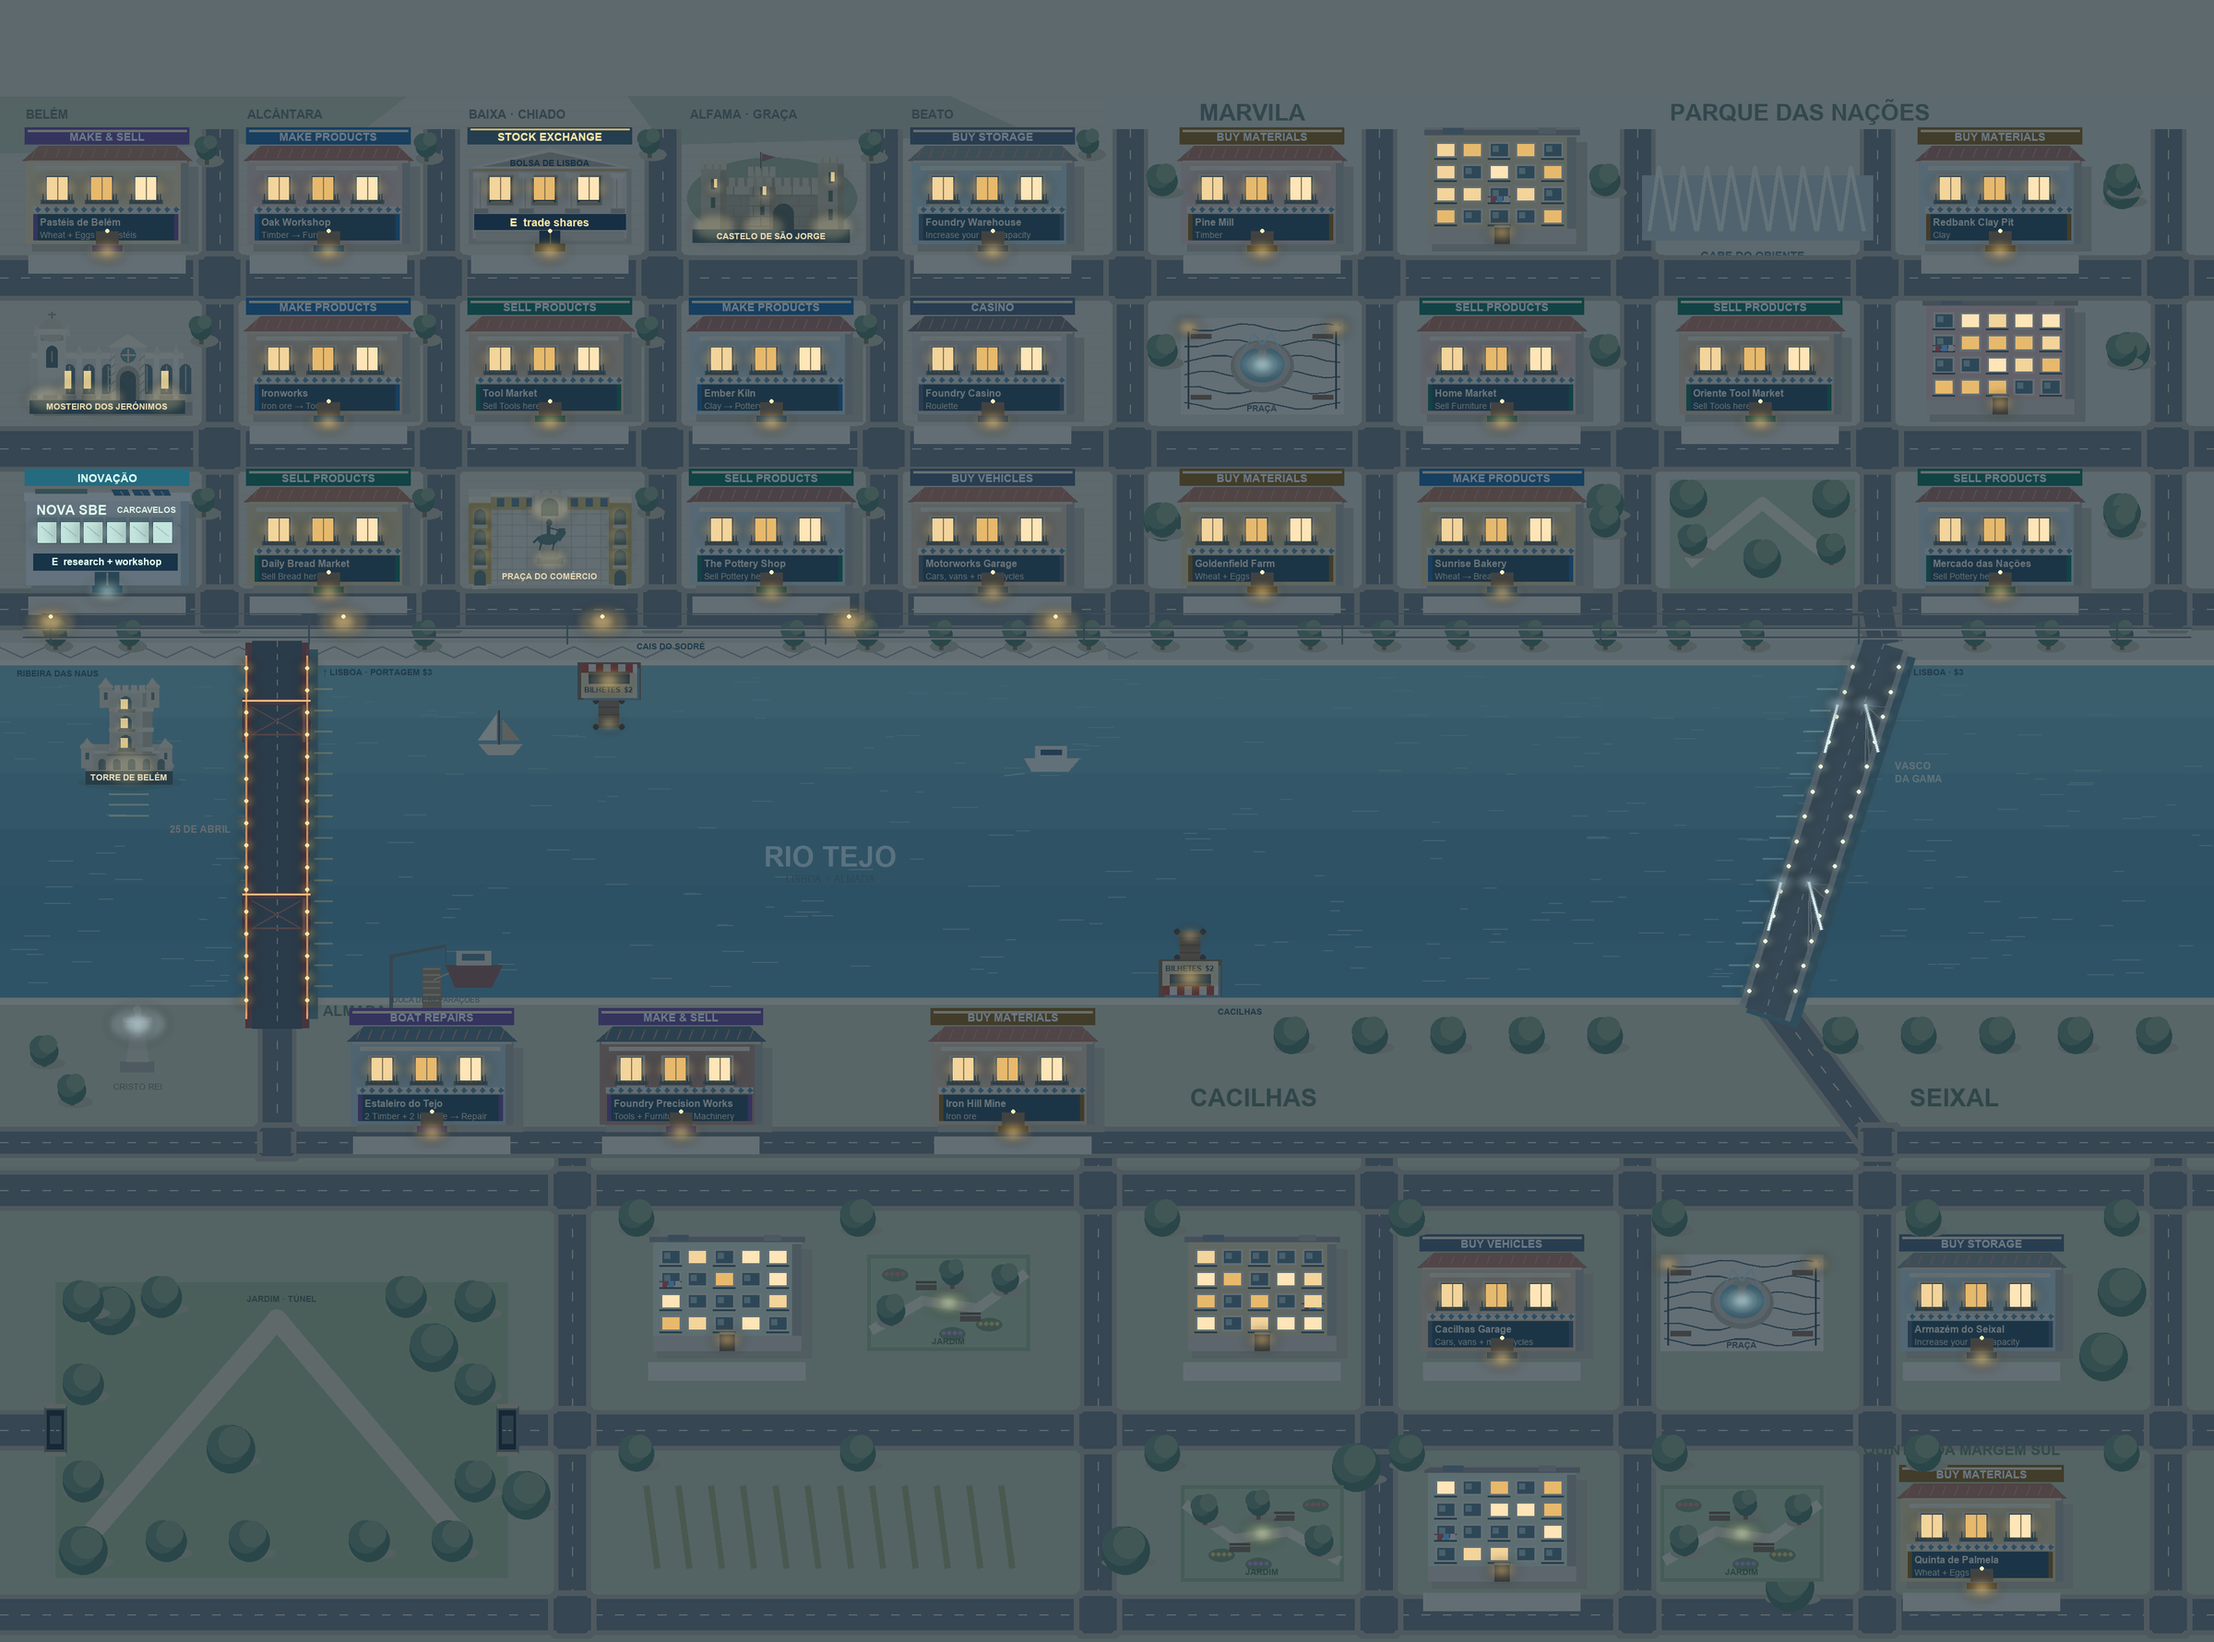
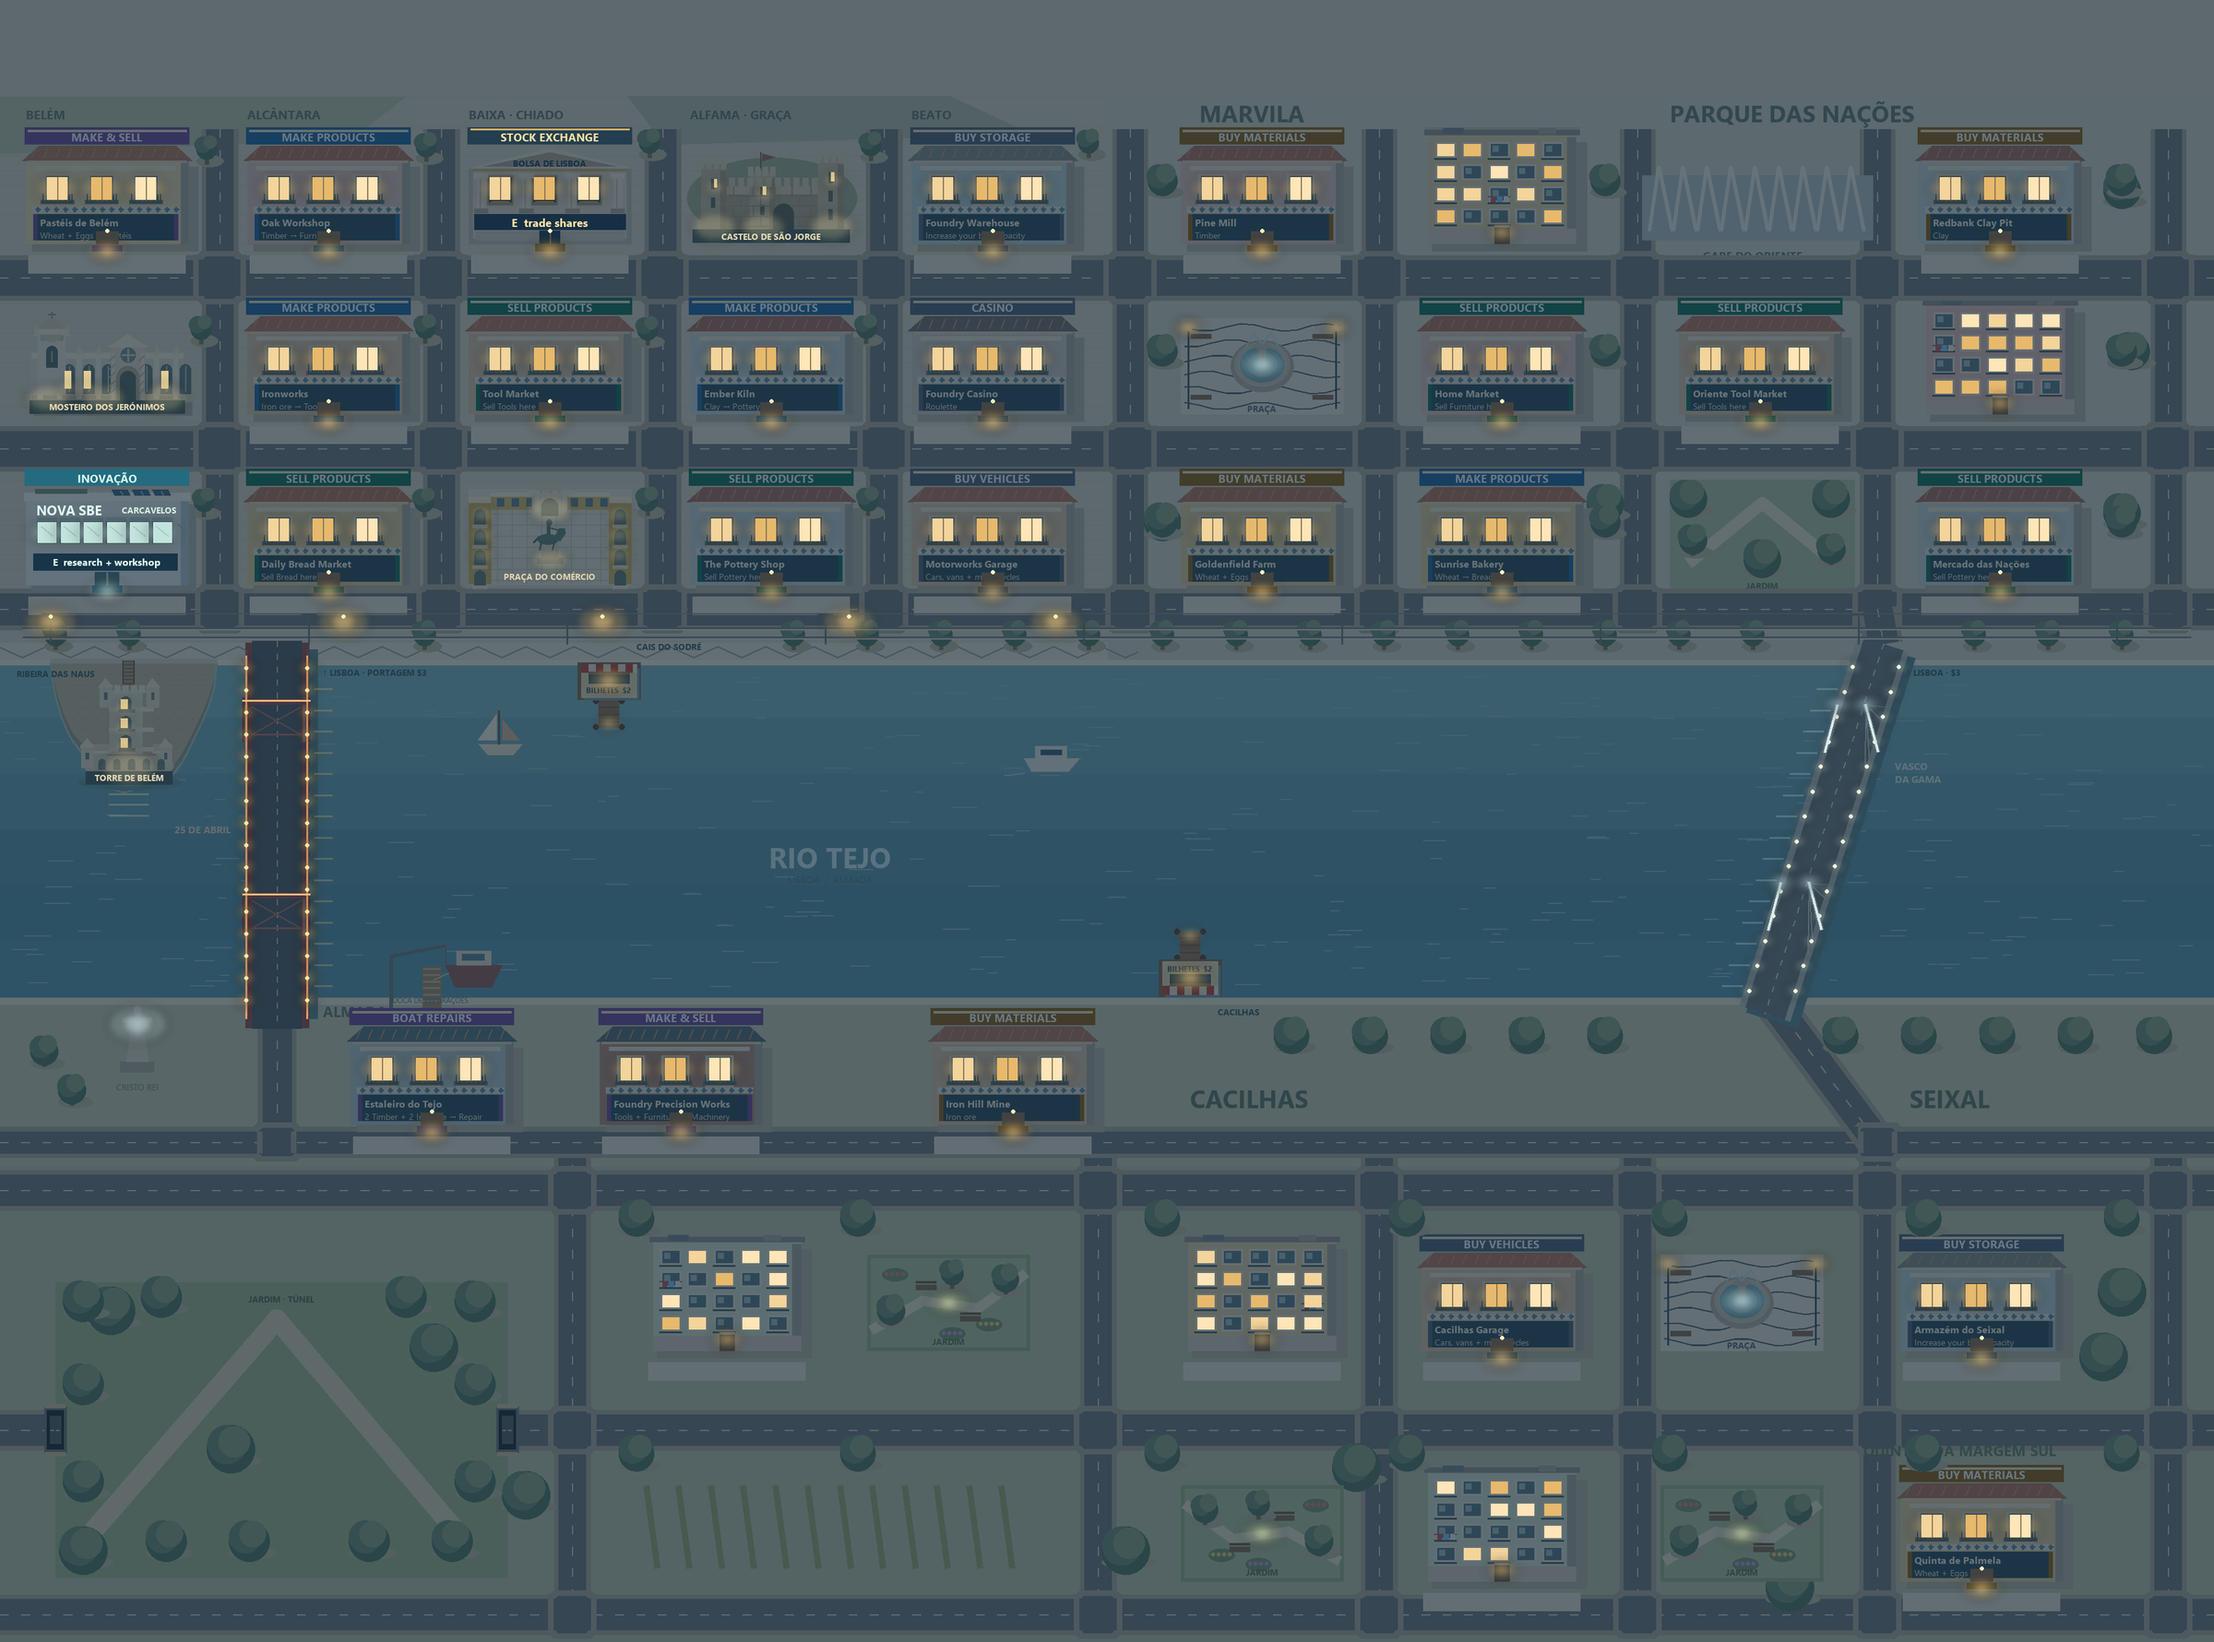
Add Belem tidal shore, side-view F1 and vehicle park restrictions

diff --git a/lisbon_scene.py b/lisbon_scene.py
@@ -35,6 +35,36 @@ FOUNTAIN_BASIN = (58, 26, 118, 74)  # Inside the 176 x 104 plot
 SOUTH_PARK_BOUNDS = (60, south(1210), 550, south(1530))
 # A covered east-west roadway passes beneath the south-bank garden.
 SOUTH_PARK_TUNNEL = (45, 565, south(1370), 17)
+ORIENTE_PARK_BOUNDS = (1810, 520, 2010, 640)
+PARK_BOUNDS = (SOUTH_PARK_BOUNDS, ORIENTE_PARK_BOUNDS) + tuple(
+    (x, y, x+176, y+104) for (x, y), kind in SCENERY_PLOTS if kind == "park"
+)
+# A small low-tide foreshore meets the promenade beside the fixed tower.
+SAND_WEST, SAND_EAST = 55, 235
+SAND_BOTTOM = 855
+
+
+def sand_edge(x):
+    fraction = (x-SAND_WEST)/(SAND_EAST-SAND_WEST)
+    if not 0 <= fraction <= 1:
+        return RIVER_TOP
+    curve = math.sin(math.pi*fraction)**.55
+    scallops = 1 + .045*math.sin(fraction*math.tau*3)
+    return RIVER_TOP + (SAND_BOTTOM-RIVER_TOP)*curve*scallops
+
+
+def on_sand(x, y, radius=0):
+    """Keep the walking footprint inside the same tidal edge used for drawing."""
+    return (SAND_WEST+radius <= x <= SAND_EAST-radius and RIVER_TOP-3 <= y
+            and y+radius <= min(sand_edge(x-radius), sand_edge(x), sand_edge(x+radius)))
+
+
+def vehicle_park_blocked(x, y, radius=10):
+    left, right, center_y, half_width = SOUTH_PARK_TUNNEL
+    if left <= x <= right and abs(y-center_y) <= half_width-radius:
+        return False
+    return any(left-radius < x < right+radius and top-radius < y < bottom+radius
+               for left, top, right, bottom in PARK_BOUNDS)
 SCENERY_BLOCKS = tuple(
     (x, y, x+176, y+104) if kind == "flats"
     else (x+FOUNTAIN_BASIN[0], y+FOUNTAIN_BASIN[1], x+FOUNTAIN_BASIN[2], y+FOUNTAIN_BASIN[3])
@@ -56,6 +86,11 @@ def bridge_at(x, y, radius=10):
 def walkable_terrain(x, y, radius=10, on_foot=False):
     """The river is only crossable on a bridge, and the bridges only carry vehicles."""
     if RIVER_TOP - radius < y < RIVER_BOTTOM + radius:
+        if on_foot and on_sand(x, y, radius):
+            # The tower stays in its original position and remains solid.
+            if 90-radius < x < 190+radius and 735-radius < y < 850+radius:
+                return False
+            return True
         return not on_foot and bridge_at(x, y, radius) is not None
     return True
 
@@ -199,8 +234,9 @@ class LisbonScene:
             self.road((x, 140, x, 660), 29)
         self.text(1300, 122, "MARVILA", 19, "#6b7d6c", True)
         self.text(1810, 122, "PARQUE DAS NAÇÕES", 19, "#6b7d6c", True)
-        self.rect(1810, 520, 2010, 640, "#b7c5a0")
+        self.rect(*ORIENTE_PARK_BOUNDS, "#b7c5a0")
         self.line((1830, 610, 1910, 545, 1990, 610), "#ece3c7", 13, smooth=True)
+        self.text(1910, 635, "JARDIM", 7, "#5f7650", True, "center")
         for x, y in ((1830, 550), (1985, 550), (1910, 615), (2300, 215),
                      (1260, 575), (1740, 555), (2300, 565), (2310, 390)):
             self.tree(x, y, 20)
@@ -428,6 +464,27 @@ class LisbonScene:
         for _ in range(round(160*(RIVER_BOTTOM-RIVER_TOP)/182)):
             x, y = rng.randrange(0, WORLD_WIDTH), rng.randrange(RIVER_TOP+12, RIVER_BOTTOM-8)
             self.line((x, y, x+rng.randrange(8, 30), y), "#91c1c4", 1)
+        shoreline = [(x, sand_edge(x)) for x in range(SAND_WEST, SAND_EAST+1, 3)]
+        coast = tuple(value for point in shoreline for value in point)
+        # Broad pale sand backs onto the quay, with a damp, darker tidal fringe.
+        sand_polygon = (SAND_WEST, RIVER_TOP-3, SAND_EAST, RIVER_TOP-3) + tuple(
+            value for point in reversed(shoreline) for value in point)
+        self.poly(sand_polygon, "#c9bc98")
+        inner = [(x, max(RIVER_TOP, y-9)) for x, y in shoreline]
+        wet_band = coast + tuple(value for point in reversed(inner) for value in point)
+        self.poly(wet_band, "#9d9e83")
+        self.line(coast, "#b5ccc0", 2)
+        for x in range(SAND_WEST+10, SAND_EAST-10, 13):
+            for y in range(RIVER_TOP+12, SAND_BOTTOM-8, 12):
+                if on_sand(x, y, 8):
+                    self.line((x, y, x+3, y+1), "#b5a887", 1)
+        # Limestone quay and timber approach on the landward side of the tower.
+        self.line((SAND_WEST, RIVER_TOP-2, SAND_EAST, RIVER_TOP-2), "#dcd6bf", 5)
+        self.rect(133, RIVER_TOP-2, 145, 742, "#997e59")
+        for y in range(RIVER_TOP, 741, 4):
+            self.line((134, y, 144, y), "#c2a77f")
+        self.line((133, RIVER_TOP-2, 133, 741), "#695c47", 1)
+        self.line((145, RIVER_TOP-2, 145, 741), "#695c47", 1)
         # A small traditional sailing boat and a commuter ferry.
         self.poly((519, 807, 566, 807, 556, 818, 529, 818), "#f2e6c9")
         self.line((541, 770, 541, 807), "#735b46", 2)

diff --git a/vehicle_art.py b/vehicle_art.py
@@ -61,46 +61,30 @@ def draw_player_vehicle(canvas, kind, facing, profile, body_colors, costumes):
         polygon((-29,-11,-18,-12,-17,-9,-30,-8), "#252f34")
         wheel_positions = (-23, 24)
     elif kind == "f1":
-        # Overhead three-quarter silhouette follows the blueprint's long
-        # wheelbase, broad rear body and narrow nose between exposed wheels.
-        oval((-48, -23, 49, 25), "#34433f")
-        polygon((-40,-13,-40,13,-29,16,-6,14,4,8,39,4,39,-4,4,-8,-6,-14,-29,-16), "#20264b")
-        polygon((-32,-10,-15,-12,-3,-7,-3,7,-15,12,-32,10), "#343f7c")
-        polygon((-30,-5,-19,-7,-4,-4,-4,4,-19,7,-30,5), "#ca303d")
-        # Engine cover tapers toward the rear wing, behind the central cockpit.
-        polygon((-33,-3,-12,-6,-8,-3,-8,3,-12,6,-33,3), "#30376a")
-        polygon((-30,-2,-12,-3,-12,0,-30,1), "#e9b829")
-        # Suspension arms connect each wheel to the chassis.
-        for axle in (-30, 27):
-            for side in (-1, 1):
-                line((axle-7,side*4,axle,side*18,axle+6,side*4), "#a0a7ac", 1)
-        # Four wide slick tyres with yellow sidewall stripes.
-        for axle in (-30, 27):
-            for side in (-1, 1):
-                center_y = side * 18
-                polygon((axle-8,center_y-5,axle-6,center_y-7,
-                         axle+6,center_y-7,axle+8,center_y-5,
-                         axle+8,center_y+5,axle+6,center_y+7,
-                         axle-6,center_y+7,axle-8,center_y+5), "#151b22")
-                line((axle-5,center_y-5,axle+5,center_y-5), "#d1b83e", 1)
-                line((axle-5,center_y+5,axle+5,center_y+5), "#d1b83e", 1)
-        # Cockpit and halo sit between the sculpted sidepods.
-        oval((-11,-6,5,6), "#111b27")
-        oval((-8,-4,-1,4), "#d9c334")
-        polygon((-5,-3,-1,-2,-1,2,-5,3), "#526e86")
-        line((-10,-7,3,-7,6,0,3,7,-10,7), "#7d8797", 2)
-        line((6,0,14,0), "#7d8797", 2)
-        # Long yellow nose reaches a multi-element, swept front wing.
-        polygon((7,-5,20,-3,42,-2,44,2,20,3,7,5), "#ebbe2e")
-        polygon((37,-26,43,-26,44,-12,48,-5,48,5,44,12,43,26,
-                 37,26,39,10,43,3,43,-3,39,-10), "#242c50")
-        line((40,-24,41,-12,46,-4), "#6673a1")
-        line((46,4,41,12,40,24), "#6673a1")
-        # Tall rear wing and endplates span the rear tyre track.
-        polygon((-47,-24,-40,-24,-39,24,-46,24), "#272e52")
-        line((-44,-21,-43,21), "#6c79ab", 2)
-        polygon((-48,-25,-39,-25,-39,-22,-48,-22), "#151c2d")
-        polygon((-48,22,-39,22,-39,25,-48,25), "#151c2d")
+        # Side profile: low chassis, long nose, exposed slicks and elevated rear wing.
+        polygon((-49,5,49,5,48,10,-48,10), "#171c29")
+        line((-35,4,33,4), "#8c959c", 2)
+        polygon((-37,3,-33,-9,-23,-13,-16,-22,-9,-23,-2,-10,
+                 16,-5,42,-2,47,3,42,6,-35,6), "#242b58")
+        polygon((-33,-7,-20,-11,-5,-7,13,-2,5,4,-27,3), "#354783")
+        polygon((-30,-10,-23,-14,-13,-14,-7,-8,-17,-6), "#d93443")
+        polygon((-22,-14,-16,-22,-10,-22,-5,-13), "#dfb936")
+        polygon((7,-6,30,-2,43,0,44,3,28,4,12,0), "#efc32f")
+        # Broad rear-wing endplate/support, with the original slim wing above.
+        polygon((-44,-20,-37,-20,-35,3,-43,3), "#32394c")
+        line((-40,-18,-38,1), "#586378", 2)
+        polygon((-47,-24,-32,-24,-32,-20,-47,-20), "#252d51")
+        line((-46,-23,-33,-23), "#8491ba")
+        line((-4,-12,0,-21,12,-21,18,-8), "#75849a", 2)
+        oval((2,-20,11,-11), "#e2c938")
+        polygon((6,-18,11,-17,11,-14,6,-14), "#293f56")
+        polygon((38,3,49,3,49,7,37,7), "#272e4d")
+        line((39,1,48,1), "#7e89ad")
+        for axle in (-33, 31):
+            oval((axle-11,-3,axle+11,19), "#151b22")
+            oval((axle-8,-.0,axle+8,16), "#d6bc3f")
+            oval((axle-6,2,axle+6,14), "#303948")
+            oval((axle-2,6,axle+2,10), "#818a96")
     else:
         polygon((-36,-25,12,-25,28,-15,37,-6,37,10,-36,10), "#c7cecf")
         polygon((-33,-23,10,-23,10,6,-33,6), "#f3f3ed")

diff --git a/tycoon.py b/tycoon.py
@@ -816,6 +816,9 @@ class Town:
             self.bridge_journey = None
 
     def can_walk(self, x, y):
+        from lisbon_scene import vehicle_park_blocked
+        if self.vehicle and vehicle_park_blocked(x, y, PLAYER_RADIUS):
+            return False
         return (PLAYER_RADIUS <= x <= WORLD_WIDTH-PLAYER_RADIUS and MAP_TOP+PLAYER_RADIUS <= y <= WORLD_BOTTOM-PLAYER_RADIUS
                 and walkable_terrain(x, y, PLAYER_RADIUS, on_foot=self.vehicle is None)) and not any(
             left - PLAYER_RADIUS < x < right + PLAYER_RADIUS
